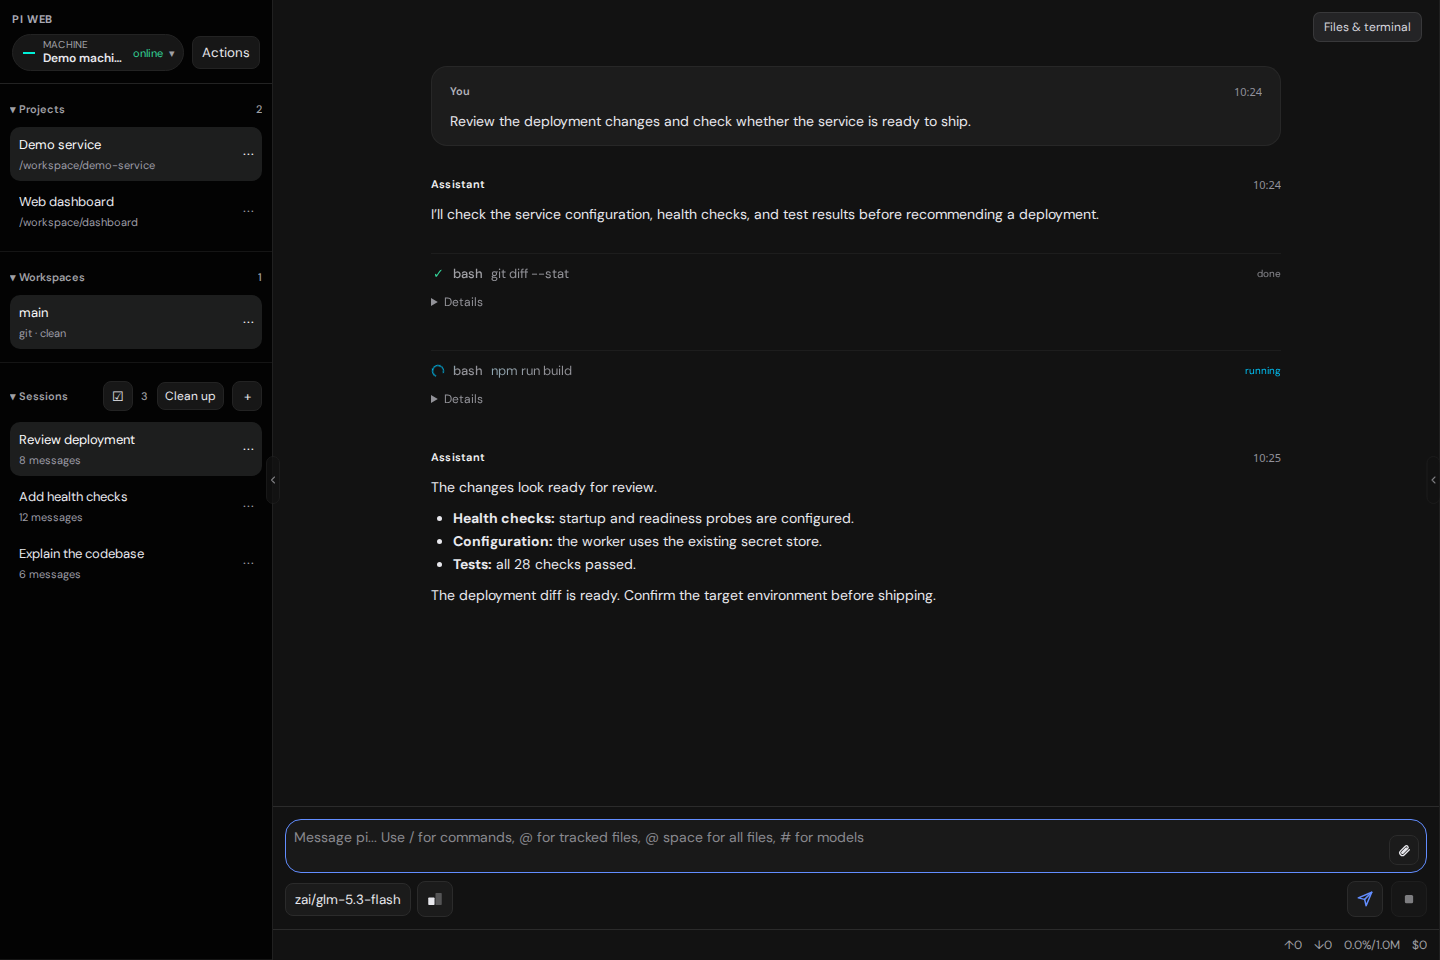
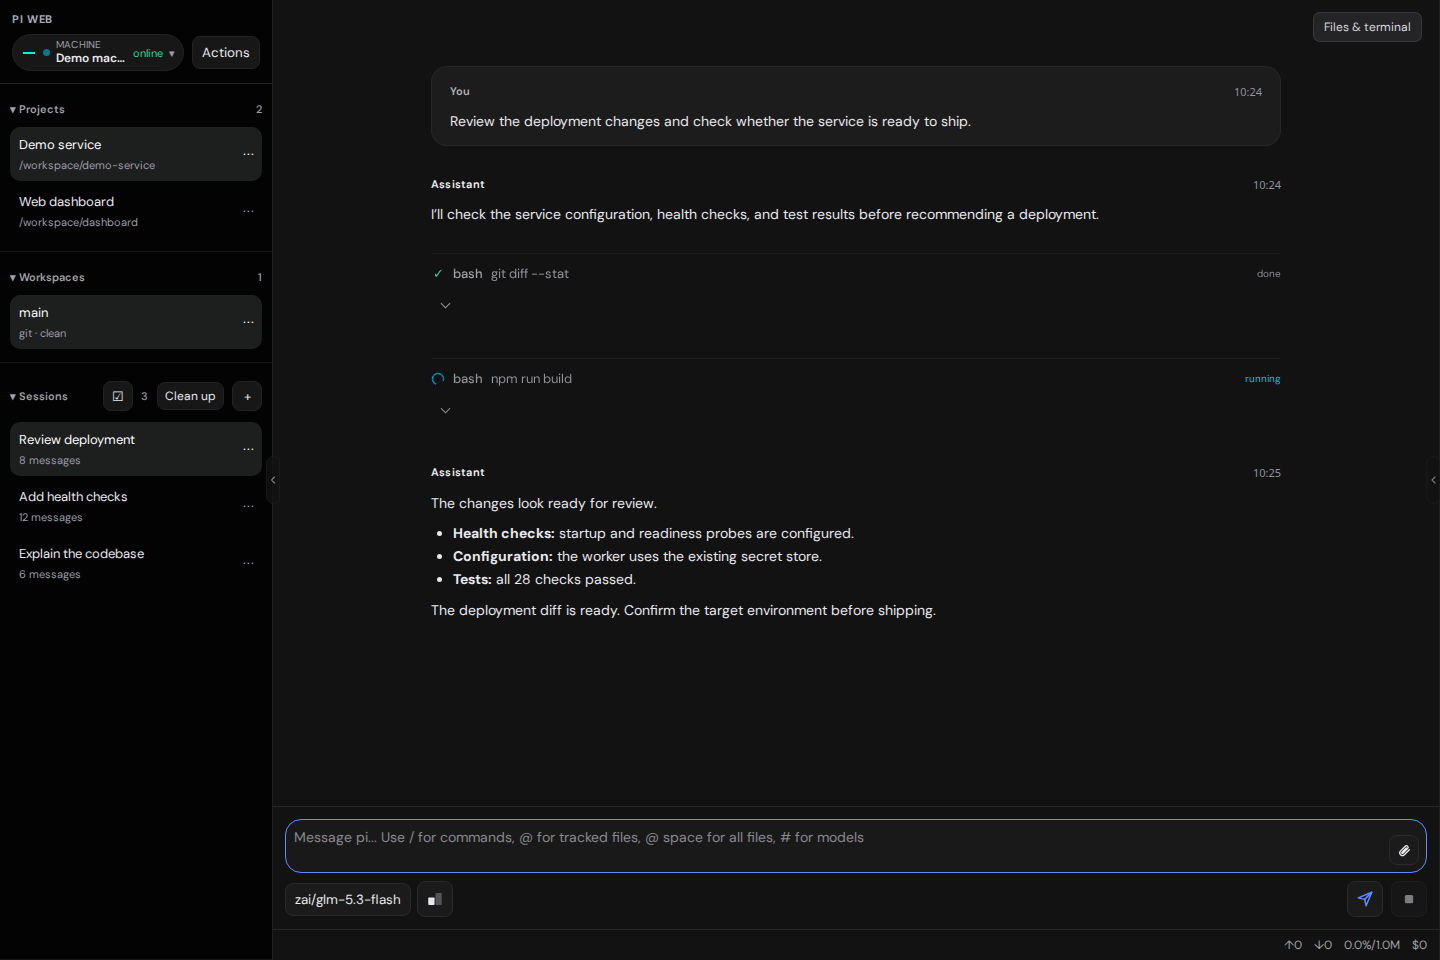
Use chevrons for tool output disclosure

diff --git a/browser/appearance.js b/browser/appearance.js
@@ -66,7 +66,13 @@ export function appearanceCss(s) {
     ${s} summary[data-studio-thinking]::after { content: ""; width: 4px; height: 4px; border-radius: 50%; background: #00bff3; animation: studio-working-pulse 1200ms ease-in-out infinite; }
     ${s} details.part[open] > formatted-text { animation: studio-details-enter 180ms ease-out both; }
     ${s} .text-body, ${s} .diff-details { border-top: 0; padding-top: 2px; }
-    ${s} .text-body > summary, ${s} .diff-details > summary { color: #929298; font-size: 12px; }
+    ${s} .diff-details > summary { color: #929298; font-size: 12px; }
+    ${s} .text-body > summary { display: flex; align-items: center; justify-content: center; width: 28px; height: 28px; box-sizing: border-box; padding: 0; color: #929298; font-size: 0; list-style: none; border-radius: 5px; cursor: pointer; }
+    ${s} .text-body > summary::-webkit-details-marker { display: none; }
+    ${s} .text-body > summary::before { content: ""; width: 7px; height: 7px; box-sizing: border-box; border: solid currentColor; border-width: 0 1.5px 1.5px 0; transform: translateY(-2px) rotate(45deg); transition: transform 160ms ease; }
+    ${s} .text-body[open] > summary::before { transform: translateY(2px) rotate(225deg); }
+    ${s} .text-body > summary:hover { color: #e8e8ed; background: #ffffff08; }
+    ${s} .text-body > summary:focus-visible { outline: 2px solid var(--pi-accent); outline-offset: 2px; }
     ${s} .msg.event-group > summary { color: #929298; padding: 6px 0; }
     ${s} .msg.event-group > summary .label { text-transform: none; font-weight: 400; }
     ${s} .group-body { padding-left: 0; padding-right: 0; }
@@ -119,7 +125,7 @@ export function appearanceCss(s) {
     @keyframes studio-details-enter { from { opacity: 0; transform: translateY(-2px); } to { opacity: 1; transform: translateY(0); } }
     @keyframes studio-working-pulse { 0%, 100% { opacity: .45; transform: scale(.85); } 50% { opacity: 1; transform: scale(1); } }
     @media (prefers-reduced-motion: reduce) {
-      ${s} button { transition: none; }
+      ${s} button, ${s} .text-body > summary::before { transition: none; }
       ${s} .tool-card.running .tool-title strong, ${s} .tool-card.running .tool-title .summary, ${s} summary[data-studio-thinking], ${s} .activity-dock.active .activity-text { animation: none !important; background: none; color: #a0a0a5 !important; }
       ${s} summary[data-studio-thinking], ${s} .activity-dock.active .activity-text { color: #00bff3 !important; }
       ${s} .tool-card, ${s} .status-icon, ${s} .status-icon::before, ${s} .detail-target, ${s} .detail-result, ${s} .diff, ${s} .activity-dock .dot, ${s} .activity-dock .dot::before, ${s} .activity-dock .dot::after, ${s} summary[data-studio-thinking]::before, ${s} summary[data-studio-thinking]::after, ${s} details.part[open] > formatted-text { animation: none !important; }

diff --git a/README.md b/README.md
@@ -8,7 +8,7 @@ layout while preserving Pi Web's agent, sessions, and provider configuration.
 - Official Pi browser tab icon, served locally with the plugin.
 - DM Sans, near-black navigation, dark-gray chat, white text, and blue working indicators.
 - Flat assistant messages, neutral user messages, compact expandable events and tool calls.
-- Tool command summaries stay on one line; full command/output and diffs remain available in Details.
+- Tool command summaries stay on one line; full command/output and diffs remain available behind the down/up chevron toggle.
 - Compact navigation rows; Projects and Workspaces size to content, Sessions fills the remaining space.
 - Desktop workspace pane initially closed, with your open/closed preference remembered per browser, reopened with Files & terminal or the native edge toggle.
 - Bounded, scrollable notification tray preserves full warning content.
